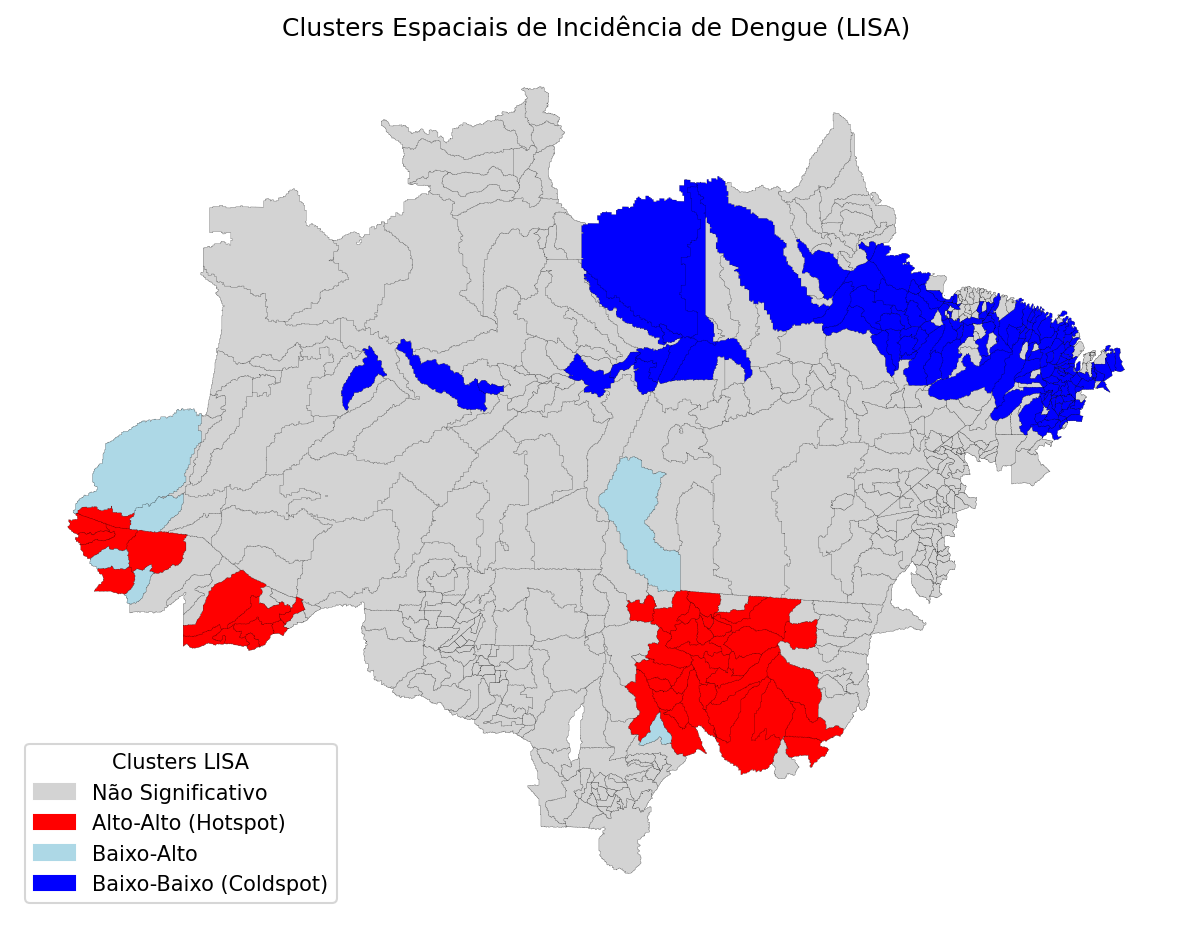
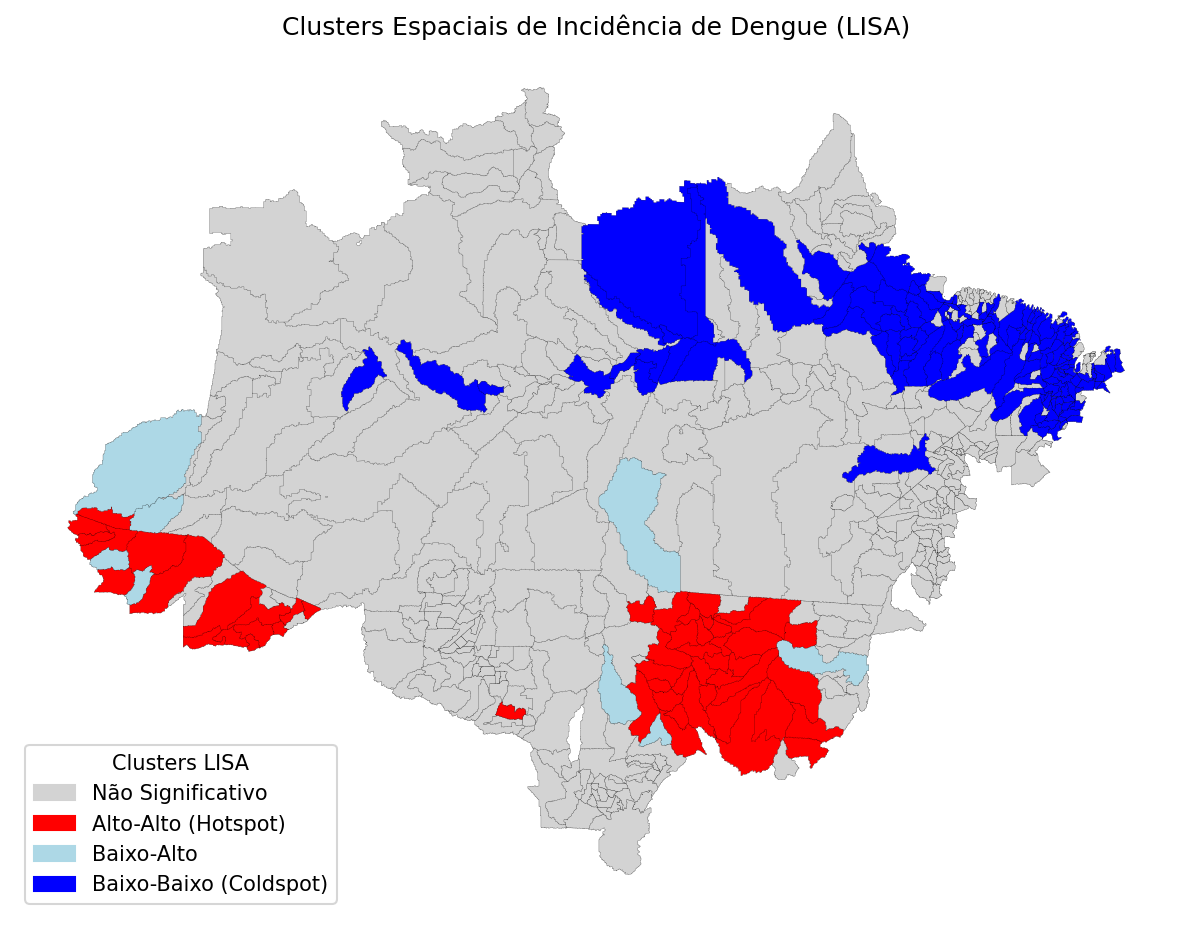
fix: fixa semente do Moran/LISA; corrige R² do bisquare no README; atualiza figura 07

diff --git a/models/run_models.py b/models/run_models.py
@@ -114,6 +114,7 @@ def with_gdp_log(cols: list[str]) -> list[str]:
 
 
 def run_moran(gdf, w) -> dict:
+    np.random.seed(42)  # as permutações do Moran usam o RNG global; fixa os clusters LISA entre execuções
     mi = Moran(gdf["dengue_incidence"], w)
     metrics = {"global_moran_i": float(mi.I), "global_moran_p": float(mi.p_sim)}
     save_json(metrics, "moran_metrics.json")

diff --git a/README.md b/README.md
@@ -87,8 +87,8 @@ otimista, porque o modelo usa muitos parâmetros efetivos; compare modelos pelo 
 | Clusters Alto-Alto (LISA) | 2 regiões ao sul, 69 municípios | MT e AC, 52 municípios |
 
 O ΔAICc não depende da escala de y, por isso é a comparação mais robusta. O artigo não informa o núcleo nem o critério
-de banda; o gaussiano fixo por AICc foi o que melhor reproduziu seus números (o bisquare adaptativo do baseline dá R²
-ajustado de apenas 0,46).
+de banda; o gaussiano fixo por AICc foi o que melhor reproduziu seus números (o bisquare adaptativo, testado nas mesmas 4
+variáveis brutas, dá R² ajustado de apenas 0,44 pela fórmula do GWmodel).
 
 ### Diferenças em relação ao artigo
 
